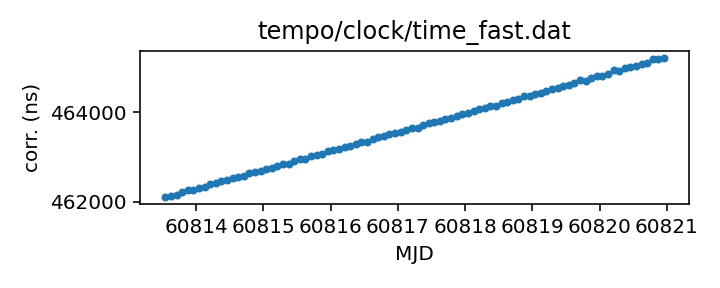
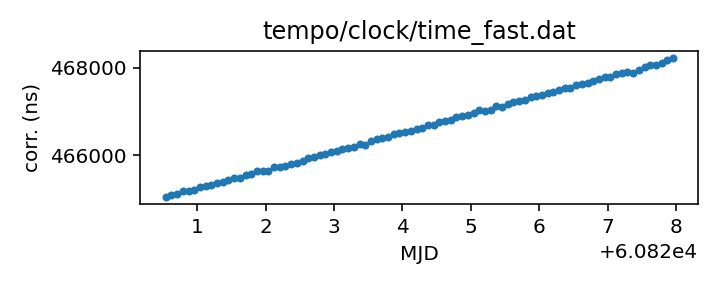
Routine gh-pages update from Github action Mon Jun  2 20:44:32 UTC 2025

diff --git a/status.md b/status.md
@@ -13,18 +13,18 @@ name of each clock file links to a page with more details.
 
 | Name | File | Corrections start | Corrections end | Last check date | Last check result 
 |:--- |:--- | --- | --- | --- |:--- 
-| [GPS to UTC](T2runtime/clock/gps2utc.clk.html) | `T2runtime/clock/gps2utc.clk` | 1993-01-01 MJD 48988.0 | 2025-04-29 MJD 60794.0 | 2025-06-01 | Unchanged 
-| [GPS to UTC (Combined Clock)](T2runtime/clock/gps2utc_cc.clk.html) | `T2runtime/clock/gps2utc_cc.clk` | 1993-01-01 MJD 48988.0 | 2025-04-29 MJD 60794.0 | 2025-06-01 | Unchanged 
-| [GPS to UTC (Corrected)](T2runtime/clock/gps2utc_c0p.clk.html) | `T2runtime/clock/gps2utc_c0p.clk` | 2010-12-29 MJD 55559.0 | 2025-04-29 MJD 60794.0 | 2025-06-01 | Unchanged 
-| [GBT](tempo/clock/time_gbt.dat.html) | `tempo/clock/time_gbt.dat` | 2000-12-31 MJD 51909.5 | 2025-05-29 MJD 60824.5 | 2025-06-01 | Unchanged 
-| [GBT (TEMPO2 converted from TEMPO)](T2runtime/clock/gbt2gps.clk.html) | `T2runtime/clock/gbt2gps.clk` | 2000-12-31 MJD 51909.5 | 2024-05-18 MJD 60448.5 | 2025-06-01 | **Validation failed** 
-| [Jodrell Bank](T2runtime/clock/jb2gps.clk.html) | `T2runtime/clock/jb2gps.clk` | 2006-10-13 MJD 54021.4 | 2024-11-07 MJD 60621.0 | 2025-05-26 | Unchanged 
-| [Jodrell Bank Roach](T2runtime/clock/jbroach2jb.clk.html) | `T2runtime/clock/jbroach2jb.clk` | 2006-10-13 MJD 54021.4 | 2018-03-20 MJD 58197.6 | 2025-05-26 | Unchanged 
-| [Jodrell Bank DFB](T2runtime/clock/jbdfb2jb.clk.html) | `T2runtime/clock/jbdfb2jb.clk` | 2006-10-13 MJD 54021.4 | 2021-02-22 MJD 59268.0 | 2025-05-26 | Unchanged 
-| [Meerkat (observatory)](T2runtime/clock/mk2utc_observatory.clk.html) | `T2runtime/clock/mk2utc_observatory.clk` | 2019-01-01 MJD 58484.0 | 2025-05-20 MJD 60816.0 | 2025-05-26 | Updated 
-| [Leap seconds](tempo/clock/leap.sec.html) | `tempo/clock/leap.sec` | 1972-07-01 MJD 41499.0 | 2017-01-01 MJD 57754.0 | 2025-06-01 | Unchanged 
-| [UT1 table](tempo/clock/ut1.dat.html) | `tempo/clock/ut1.dat` | 1973-01-02 MJD 41684.0 | 2026-06-06 MJD 61197.0 | 2025-06-01 | Unchanged 
-| [UT1 table](T2runtime/clock/ut1.dat.html) | `T2runtime/clock/ut1.dat` | 1973-01-02 MJD 41684.0 | 2026-06-06 MJD 61197.0 | 2025-06-01 | Unchanged 
+| [GPS to UTC](T2runtime/clock/gps2utc.clk.html) | `T2runtime/clock/gps2utc.clk` | 1993-01-01 MJD 48988.0 | 2025-04-29 MJD 60794.0 | 2025-06-02 | Unchanged 
+| [GPS to UTC (Combined Clock)](T2runtime/clock/gps2utc_cc.clk.html) | `T2runtime/clock/gps2utc_cc.clk` | 1993-01-01 MJD 48988.0 | 2025-04-29 MJD 60794.0 | 2025-06-02 | Unchanged 
+| [GPS to UTC (Corrected)](T2runtime/clock/gps2utc_c0p.clk.html) | `T2runtime/clock/gps2utc_c0p.clk` | 2010-12-29 MJD 55559.0 | 2025-04-29 MJD 60794.0 | 2025-06-02 | Unchanged 
+| [GBT](tempo/clock/time_gbt.dat.html) | `tempo/clock/time_gbt.dat` | 2000-12-31 MJD 51909.5 | 2025-05-29 MJD 60824.5 | 2025-06-02 | Unchanged 
+| [GBT (TEMPO2 converted from TEMPO)](T2runtime/clock/gbt2gps.clk.html) | `T2runtime/clock/gbt2gps.clk` | 2000-12-31 MJD 51909.5 | 2024-05-18 MJD 60448.5 | 2025-06-02 | **Validation failed** 
+| [Jodrell Bank](T2runtime/clock/jb2gps.clk.html) | `T2runtime/clock/jb2gps.clk` | 2006-10-13 MJD 54021.4 | 2024-11-07 MJD 60621.0 | 2025-06-02 | Unchanged 
+| [Jodrell Bank Roach](T2runtime/clock/jbroach2jb.clk.html) | `T2runtime/clock/jbroach2jb.clk` | 2006-10-13 MJD 54021.4 | 2018-03-20 MJD 58197.6 | 2025-06-02 | Unchanged 
+| [Jodrell Bank DFB](T2runtime/clock/jbdfb2jb.clk.html) | `T2runtime/clock/jbdfb2jb.clk` | 2006-10-13 MJD 54021.4 | 2021-02-22 MJD 59268.0 | 2025-06-02 | Unchanged 
+| [Meerkat (observatory)](T2runtime/clock/mk2utc_observatory.clk.html) | `T2runtime/clock/mk2utc_observatory.clk` | 2019-01-01 MJD 58484.0 | 2025-05-20 MJD 60816.0 | 2025-06-02 | **Failed to download** 
+| [Leap seconds](tempo/clock/leap.sec.html) | `tempo/clock/leap.sec` | 1972-07-01 MJD 41499.0 | 2017-01-01 MJD 57754.0 | 2025-06-02 | Unchanged 
+| [UT1 table](tempo/clock/ut1.dat.html) | `tempo/clock/ut1.dat` | 1973-01-02 MJD 41684.0 | 2026-06-06 MJD 61197.0 | 2025-06-02 | Unchanged 
+| [UT1 table](T2runtime/clock/ut1.dat.html) | `T2runtime/clock/ut1.dat` | 1973-01-02 MJD 41684.0 | 2026-06-06 MJD 61197.0 | 2025-06-02 | Unchanged 
 
 
 
@@ -68,26 +68,26 @@ name of each clock file links to a page with more details.
 
 | Name | File | Corrections start | Corrections end | Last check date | Last check result 
 |:--- |:--- | --- | --- | --- |:--- 
-| [GPS to UTC (TEMPO2)](T2runtime/clock/gpst2utc_tempo2.clk.html) | `T2runtime/clock/gpst2utc_tempo2.clk` | 1993-01-01 MJD 48988.0 | 2024-12-30 MJD 60674.0 | 2025-05-26 | Unchanged 
-| [GBT (TEMPO2)](T2runtime/clock/gbt2gps_tempo2.clk.html) | `T2runtime/clock/gbt2gps_tempo2.clk` | 2000-12-31 MJD 51909.5 | 2020-02-25 MJD 58904.5 | 2025-05-26 | Unchanged 
-| [Jodrell Bank (TEMPO)](tempo/clock/time_jb.dat.html) | `tempo/clock/time_jb.dat` | 2006-10-13 MJD 54021.4 | 2019-05-13 MJD 58616.2 | 2025-05-26 | Unchanged 
-| [VLA](tempo/clock/time_vla.dat.html) | `tempo/clock/time_vla.dat` | 1990-10-27 MJD 48191.2 | 2025-02-10 MJD 60716.2 | 2025-05-26 | Unchanged 
-| [VLA (TEMPO2)](T2runtime/clock/vla2gps.clk.html) | `T2runtime/clock/vla2gps.clk` | 2015-02-01 MJD 57054.6 | 2025-02-10 MJD 60716.2 | 2025-05-26 | Unchanged 
-| [VLA to NIST](T2runtime/clock/vla2nist.clk.html) | `T2runtime/clock/vla2nist.clk` | 1990-10-27 MJD 48191.2 | 1993-11-13 MJD 49304.0 | 2025-05-26 | Unchanged 
-| [FAST](tempo/clock/time_fast.dat.html) | `tempo/clock/time_fast.dat` | 2017-07-27 MJD 57961.0 | 2025-05-25 MJD 60821.0 | 2025-05-26 | Updated 
-| [WSRT](T2runtime/clock/wsrt2gps.clk.html) | `T2runtime/clock/wsrt2gps.clk` | 1999-01-01 MJD 51179.5 | 2015-06-29 MJD 57202.1 | 2025-05-26 | Unchanged 
-| [WSRT (TEMPO)](tempo/clock/time_wsrt.dat.html) | `tempo/clock/time_wsrt.dat` | 1987-07-24 MJD 47000.0 | 2007-12-24 MJD 54458.0 | 2025-05-26 | **Validation failed** 
-| [Parkes](T2runtime/clock/pks2gps.clk.html) | `T2runtime/clock/pks2gps.clk` | 1858-11-17 MJD 0.0 | 2025-04-30 MJD 60795.1 | 2025-05-26 | Unchanged 
-| [Parkes (TEMPO)](tempo/clock/time_pks.dat.html) | `tempo/clock/time_pks.dat` | 1979-05-07 MJD 44000.0 | 2011-07-03 MJD 55745.8 | 2025-05-26 | Unchanged 
-| [SRT](T2runtime/clock/srt2gps.clk.html) | `T2runtime/clock/srt2gps.clk` | 2013-03-20 MJD 56371.0 | 2019-12-11 MJD 58828.0 | 2025-05-26 | Unchanged 
-| [Effelsberg](T2runtime/clock/eff2gps.clk.html) | `T2runtime/clock/eff2gps.clk` | 1993-11-29 MJD 49320.0 | 2015-06-22 MJD 57195.5 | 2025-05-26 | Unchanged 
-| [Effelsberg Asterix/PSRix](T2runtime/clock/effix2gps.clk.html) | `T2runtime/clock/effix2gps.clk` | 2011-01-01 MJD 55562.5 | 2021-03-21 MJD 59294.5 | 2025-05-26 | Unchanged 
-| [LEAP](T2runtime/clock/leap2effix.clk.html) | `T2runtime/clock/leap2effix.clk` | 2012-10-29 MJD 56230.0 | 2014-03-04 MJD 56720.0 | 2025-05-26 | Unchanged 
-| [NUPPI](tempo/clock/time_nuppi.dat.html) | `tempo/clock/time_nuppi.dat` | 2005-03-07 MJD 53436.0 | 2015-11-08 MJD 57334.6 | 2025-05-26 | Unchanged 
-| [Meerkat (TEMPO2)](T2runtime/clock/mk2utc.clk.html) | `T2runtime/clock/mk2utc.clk` | 2019-01-01 MJD 58484.0 | 2024-09-23 MJD 60576.9 | 2025-05-26 | **Validation failed** 
-| [MOST](T2runtime/clock/mo2gps.clk.html) | `T2runtime/clock/mo2gps.clk` | 2003-12-27 MJD 53000.0 | 2018-09-06 MJD 58367.0 | 2025-05-26 | Unchanged 
-| [Nancay to obspm](T2runtime/clock/ncyobs2obspm.clk.html) | `T2runtime/clock/ncyobs2obspm.clk` | 1988-05-18 MJD 47299.6 | 2024-12-30 MJD 60674.0 | 2025-05-26 | Unchanged 
-| [obspm](T2runtime/clock/obspm2gps.clk.html) | `T2runtime/clock/obspm2gps.clk` | 2003-12-01 MJD 52974.0 | 2023-10-27 MJD 60244.0 | 2025-05-26 | Unchanged 
+| [GPS to UTC (TEMPO2)](T2runtime/clock/gpst2utc_tempo2.clk.html) | `T2runtime/clock/gpst2utc_tempo2.clk` | 1993-01-01 MJD 48988.0 | 2024-12-30 MJD 60674.0 | 2025-06-02 | Unchanged 
+| [GBT (TEMPO2)](T2runtime/clock/gbt2gps_tempo2.clk.html) | `T2runtime/clock/gbt2gps_tempo2.clk` | 2000-12-31 MJD 51909.5 | 2020-02-25 MJD 58904.5 | 2025-06-02 | Unchanged 
+| [Jodrell Bank (TEMPO)](tempo/clock/time_jb.dat.html) | `tempo/clock/time_jb.dat` | 2006-10-13 MJD 54021.4 | 2019-05-13 MJD 58616.2 | 2025-06-02 | Unchanged 
+| [VLA](tempo/clock/time_vla.dat.html) | `tempo/clock/time_vla.dat` | 1990-10-27 MJD 48191.2 | 2025-02-10 MJD 60716.2 | 2025-06-02 | Unchanged 
+| [VLA (TEMPO2)](T2runtime/clock/vla2gps.clk.html) | `T2runtime/clock/vla2gps.clk` | 2015-02-01 MJD 57054.6 | 2025-02-10 MJD 60716.2 | 2025-06-02 | Unchanged 
+| [VLA to NIST](T2runtime/clock/vla2nist.clk.html) | `T2runtime/clock/vla2nist.clk` | 1990-10-27 MJD 48191.2 | 1993-11-13 MJD 49304.0 | 2025-06-02 | Unchanged 
+| [FAST](tempo/clock/time_fast.dat.html) | `tempo/clock/time_fast.dat` | 2017-07-27 MJD 57961.0 | 2025-06-01 MJD 60828.0 | 2025-06-02 | Updated 
+| [WSRT](T2runtime/clock/wsrt2gps.clk.html) | `T2runtime/clock/wsrt2gps.clk` | 1999-01-01 MJD 51179.5 | 2015-06-29 MJD 57202.1 | 2025-06-02 | Unchanged 
+| [WSRT (TEMPO)](tempo/clock/time_wsrt.dat.html) | `tempo/clock/time_wsrt.dat` | 1987-07-24 MJD 47000.0 | 2007-12-24 MJD 54458.0 | 2025-06-02 | **Validation failed** 
+| [Parkes](T2runtime/clock/pks2gps.clk.html) | `T2runtime/clock/pks2gps.clk` | 1858-11-17 MJD 0.0 | 2025-04-30 MJD 60795.1 | 2025-06-02 | Unchanged 
+| [Parkes (TEMPO)](tempo/clock/time_pks.dat.html) | `tempo/clock/time_pks.dat` | 1979-05-07 MJD 44000.0 | 2011-07-03 MJD 55745.8 | 2025-06-02 | Unchanged 
+| [SRT](T2runtime/clock/srt2gps.clk.html) | `T2runtime/clock/srt2gps.clk` | 2013-03-20 MJD 56371.0 | 2019-12-11 MJD 58828.0 | 2025-06-02 | Unchanged 
+| [Effelsberg](T2runtime/clock/eff2gps.clk.html) | `T2runtime/clock/eff2gps.clk` | 1993-11-29 MJD 49320.0 | 2015-06-22 MJD 57195.5 | 2025-06-02 | Unchanged 
+| [Effelsberg Asterix/PSRix](T2runtime/clock/effix2gps.clk.html) | `T2runtime/clock/effix2gps.clk` | 2011-01-01 MJD 55562.5 | 2021-03-21 MJD 59294.5 | 2025-06-02 | Unchanged 
+| [LEAP](T2runtime/clock/leap2effix.clk.html) | `T2runtime/clock/leap2effix.clk` | 2012-10-29 MJD 56230.0 | 2014-03-04 MJD 56720.0 | 2025-06-02 | Unchanged 
+| [NUPPI](tempo/clock/time_nuppi.dat.html) | `tempo/clock/time_nuppi.dat` | 2005-03-07 MJD 53436.0 | 2015-11-08 MJD 57334.6 | 2025-06-02 | Unchanged 
+| [Meerkat (TEMPO2)](T2runtime/clock/mk2utc.clk.html) | `T2runtime/clock/mk2utc.clk` | 2019-01-01 MJD 58484.0 | 2024-09-23 MJD 60576.9 | 2025-06-02 | **Validation failed** 
+| [MOST](T2runtime/clock/mo2gps.clk.html) | `T2runtime/clock/mo2gps.clk` | 2003-12-27 MJD 53000.0 | 2018-09-06 MJD 58367.0 | 2025-06-02 | Unchanged 
+| [Nancay to obspm](T2runtime/clock/ncyobs2obspm.clk.html) | `T2runtime/clock/ncyobs2obspm.clk` | 1988-05-18 MJD 47299.6 | 2024-12-30 MJD 60674.0 | 2025-06-02 | Unchanged 
+| [obspm](T2runtime/clock/obspm2gps.clk.html) | `T2runtime/clock/obspm2gps.clk` | 2003-12-01 MJD 52974.0 | 2023-10-27 MJD 60244.0 | 2025-06-02 | Unchanged 
 
 
 ### Further information:

diff --git a/tempo/clock/time_wsrt.dat.md b/tempo/clock/time_wsrt.dat.md
@@ -20,12 +20,11 @@ should be the same information.
 | Clock file start | 1987-07-24 MJD 47000.0 |
 | Clock file end | 2007-12-24 MJD 54458.0 |
 | Update interval (days) | 7 |
-| Last update attempt | 2025-05-26 |
+| Last update attempt | 2025-06-02 |
 | Last update result | Validation failed |
 
 Log entries from the last few update attempts:
 ```
-2025-01-08 20:36:50.333 - Validation failed: Unable to read new version of tempo/clock/time_wsrt.dat: Clock file /tmp/astropy-download-2276-l3i_8691 appears to be out of order: 53000.05 > 53000.0
 2025-01-15 20:35:00.039 - Validation failed: Unable to read new version of tempo/clock/time_wsrt.dat: Clock file /tmp/astropy-download-2348-_2252_mq appears to be out of order: 53000.05 > 53000.0
 2025-01-22 20:35:01.240 - Validation failed: Unable to read new version of tempo/clock/time_wsrt.dat: Clock file /tmp/astropy-download-2304-riwd1xxy appears to be out of order: 53000.05 > 53000.0
 2025-01-29 20:35:42.515 - Validation failed: Unable to read new version of tempo/clock/time_wsrt.dat: Clock file /tmp/astropy-download-2314-jajeweba appears to be out of order: 53000.05 > 53000.0
@@ -35,6 +34,7 @@ Log entries from the last few update attempts:
 2025-05-12 20:38:46.867 - Validation failed: New version of tempo/clock/time_wsrt.dat MJDs differ from old version where they overlap in 5 places
 2025-05-19 20:42:11.433 - Validation failed: New version of tempo/clock/time_wsrt.dat MJDs differ from old version where they overlap in 5 places
 2025-05-26 20:41:03.017 - Validation failed: New version of tempo/clock/time_wsrt.dat MJDs differ from old version where they overlap in 5 places
+2025-06-02 20:43:47.127 - Validation failed: New version of tempo/clock/time_wsrt.dat MJDs differ from old version where they overlap in 5 places
 ```
 [Full log](https://raw.githubusercontent.com/ipta/pulsar-clock-corrections/main/log/tempo/clock/time_wsrt.dat.log)
 

diff --git a/T2runtime/clock/gbt2gps.clk.md b/T2runtime/clock/gbt2gps.clk.md
@@ -25,12 +25,11 @@ If questions arise about the conversion, contact Anne Archibald
 | Clock file start | 2000-12-31 MJD 51909.5 |
 | Clock file end | 2024-05-18 MJD 60448.5 |
 | Update interval (days) | 1 |
-| Last update attempt | 2025-06-01 |
+| Last update attempt | 2025-06-02 |
 | Last update result | Validation failed |
 
 Log entries from the last few update attempts:
 ```
-2025-05-23 20:41:29.842 - Validation failed: New version of T2runtime/clock/gbt2gps.clk clock corrections differ from old version where they overlap in 11 places
 2025-05-24 20:39:18.312 - Validation failed: New version of T2runtime/clock/gbt2gps.clk clock corrections differ from old version where they overlap in 11 places
 2025-05-25 20:39:16.625 - Validation failed: New version of T2runtime/clock/gbt2gps.clk clock corrections differ from old version where they overlap in 11 places
 2025-05-26 20:40:59.404 - Validation failed: New version of T2runtime/clock/gbt2gps.clk clock corrections differ from old version where they overlap in 11 places
@@ -40,6 +39,7 @@ Log entries from the last few update attempts:
 2025-05-30 20:42:53.639 - Validation failed: New version of T2runtime/clock/gbt2gps.clk clock corrections differ from old version where they overlap in 11 places
 2025-05-31 20:39:54.856 - Validation failed: New version of T2runtime/clock/gbt2gps.clk clock corrections differ from old version where they overlap in 11 places
 2025-06-01 20:41:33.021 - Validation failed: New version of T2runtime/clock/gbt2gps.clk clock corrections differ from old version where they overlap in 11 places
+2025-06-02 20:43:41.596 - Validation failed: New version of T2runtime/clock/gbt2gps.clk clock corrections differ from old version where they overlap in 11 places
 ```
 [Full log](https://raw.githubusercontent.com/ipta/pulsar-clock-corrections/main/log/T2runtime/clock/gbt2gps.clk.log)
 

diff --git a/tempo/clock/time_pks.dat.md b/tempo/clock/time_pks.dat.md
@@ -20,12 +20,11 @@ telescopes in the same file, distinguished only by observatory code.
 | Clock file start | 1979-05-07 MJD 44000.0 |
 | Clock file end | 2011-07-03 MJD 55745.8 |
 | Update interval (days) | 7 |
-| Last update attempt | 2025-05-26 |
+| Last update attempt | 2025-06-02 |
 | Last update result | Unchanged |
 
 Log entries from the last few update attempts:
 ```
-2025-01-08 20:36:54.237 - Validation failed: Unable to read new version of tempo/clock/time_pks.dat: Clock file /tmp/astropy-download-2276-gpk3q2dj appears to be out of order: 49959.0 > 49958.0
 2025-01-15 20:35:03.801 - Validation failed: Unable to read new version of tempo/clock/time_pks.dat: Clock file /tmp/astropy-download-2348-0794xif6 appears to be out of order: 49959.0 > 49958.0
 2025-01-22 20:35:06.602 - Validation failed: Unable to read new version of tempo/clock/time_pks.dat: Clock file /tmp/astropy-download-2304-98v3yima appears to be out of order: 49959.0 > 49958.0
 2025-01-29 20:35:46.314 - Validation failed: Unable to read new version of tempo/clock/time_pks.dat: Clock file /tmp/astropy-download-2314-e3p7x51_ appears to be out of order: 49959.0 > 49958.0
@@ -35,6 +34,7 @@ Log entries from the last few update attempts:
 2025-05-12 20:38:51.896 - Updated
 2025-05-19 20:42:16.749 - Unchanged
 2025-05-26 20:41:07.727 - Unchanged
+2025-06-02 20:43:51.248 - Unchanged
 ```
 [Full log](https://raw.githubusercontent.com/ipta/pulsar-clock-corrections/main/log/tempo/clock/time_pks.dat.log)
 

diff --git a/T2runtime/clock/mk2utc.clk.md b/T2runtime/clock/mk2utc.clk.md
@@ -17,12 +17,11 @@ up-to-date.
 | Clock file start | 2019-01-01 MJD 58484.0 |
 | Clock file end | 2024-09-23 MJD 60576.9 |
 | Update interval (days) | 7 |
-| Last update attempt | 2025-05-26 |
+| Last update attempt | 2025-06-02 |
 | Last update result | Validation failed |
 
 Log entries from the last few update attempts:
 ```
-2025-01-08 20:37:08.862 - Unchanged
 2025-01-15 20:35:18.948 - Unchanged
 2025-01-22 20:35:18.436 - Unchanged
 2025-01-29 20:35:53.683 - Unchanged
@@ -32,6 +31,7 @@ Log entries from the last few update attempts:
 2025-05-12 20:38:57.406 - Validation failed: New version of T2runtime/clock/mk2utc.clk MJDs differ from old version where they overlap in 8252 places
 2025-05-19 20:42:23.008 - Validation failed: New version of T2runtime/clock/mk2utc.clk MJDs differ from old version where they overlap in 8252 places
 2025-05-26 20:41:15.585 - Validation failed: New version of T2runtime/clock/mk2utc.clk MJDs differ from old version where they overlap in 8252 places
+2025-06-02 20:44:05.618 - Validation failed: New version of T2runtime/clock/mk2utc.clk MJDs differ from old version where they overlap in 8252 places
 ```
 [Full log](https://raw.githubusercontent.com/ipta/pulsar-clock-corrections/main/log/T2runtime/clock/mk2utc.clk.log)
 

diff --git a/tempo/clock/time_gbt.dat.md b/tempo/clock/time_gbt.dat.md
@@ -38,12 +38,11 @@ If questions arise, contact Ryan S. Lynch <rlynch@nrao.edu>.
 | Clock file start | 2000-12-31 MJD 51909.5 |
 | Clock file end | 2025-05-29 MJD 60824.5 |
 | Update interval (days) | 1 |
-| Last update attempt | 2025-06-01 |
+| Last update attempt | 2025-06-02 |
 | Last update result | Unchanged |
 
 Log entries from the last few update attempts:
 ```
-2025-05-23 20:41:29.788 - Updated
 2025-05-24 20:39:18.258 - Updated
 2025-05-25 20:39:16.586 - Validation failed: New version of tempo/clock/time_gbt.dat clock corrections differ from old version where they overlap in 1 places
 2025-05-26 20:40:59.026 - Validation failed: New version of tempo/clock/time_gbt.dat clock corrections differ from old version where they overlap in 1 places
@@ -53,6 +52,7 @@ Log entries from the last few update attempts:
 2025-05-30 20:42:53.584 - Updated
 2025-05-31 20:39:54.799 - Unchanged
 2025-06-01 20:41:32.967 - Unchanged
+2025-06-02 20:43:41.034 - Unchanged
 ```
 [Full log](https://raw.githubusercontent.com/ipta/pulsar-clock-corrections/main/log/tempo/clock/time_gbt.dat.log)
 

diff --git a/T2runtime/clock/mk2utc_observatory.clk.md b/T2runtime/clock/mk2utc_observatory.clk.md
@@ -21,12 +21,11 @@ If questions arise, contact Ryan Shannon <rshannon@swin.edu.au>
 | Clock file start | 2019-01-01 MJD 58484.0 |
 | Clock file end | 2025-05-20 MJD 60816.0 |
 | Update interval (days) | 7 |
-| Last update attempt | 2025-05-26 |
-| Last update result | Updated |
+| Last update attempt | 2025-06-02 |
+| Last update result | Failed to download |
 
 Log entries from the last few update attempts:
 ```
-2025-01-08 20:37:07.662 - Failed to download: The read operation timed out
 2025-01-15 20:35:17.790 - Updated
 2025-01-22 20:35:17.843 - Failed to download: <urlopen error _ssl.c:989: The handshake operation timed out>
 2025-01-29 20:35:52.603 - Updated
@@ -36,6 +35,7 @@ Log entries from the last few update attempts:
 2025-05-12 20:38:56.123 - Updated
 2025-05-19 20:42:21.702 - Unchanged
 2025-05-26 20:41:14.027 - Updated
+2025-06-02 20:44:03.921 - Failed to download: <urlopen error _ssl.c:999: The handshake operation timed out>
 ```
 [Full log](https://raw.githubusercontent.com/ipta/pulsar-clock-corrections/main/log/T2runtime/clock/mk2utc_observatory.clk.log)
 

diff --git a/tempo/clock/time_fast.dat.md b/tempo/clock/time_fast.dat.md
@@ -14,14 +14,13 @@ This file is pulled from the FAST_ClockFile repository.
 | Format | tempo |
 | Bogus last correction | False |
 | Clock file start | 2017-07-27 MJD 57961.0 |
-| Clock file end | 2025-05-25 MJD 60821.0 |
+| Clock file end | 2025-06-01 MJD 60828.0 |
 | Update interval (days) | 7 |
-| Last update attempt | 2025-05-26 |
+| Last update attempt | 2025-06-02 |
 | Last update result | Updated |
 
 Log entries from the last few update attempts:
 ```
-2025-01-08 20:36:49.677 - Updated
 2025-01-15 20:34:59.214 - Updated
 2025-01-22 20:35:00.623 - Updated
 2025-01-29 20:35:41.820 - Updated
@@ -31,6 +30,7 @@ Log entries from the last few update attempts:
 2025-05-12 20:38:46.424 - Updated
 2025-05-19 20:42:11.064 - Updated
 2025-05-26 20:41:02.533 - Updated
+2025-06-02 20:43:46.376 - Updated
 ```
 [Full log](https://raw.githubusercontent.com/ipta/pulsar-clock-corrections/main/log/tempo/clock/time_fast.dat.log)
 

diff --git a/T2runtime/clock/gps2utc_c0p.clk.md b/T2runtime/clock/gps2utc_c0p.clk.md
@@ -30,12 +30,11 @@ about the BIPM's published corrections, contact <tai@bipm.org>.
 | Clock file start | 2010-12-29 MJD 55559.0 |
 | Clock file end | 2025-04-29 MJD 60794.0 |
 | Update interval (days) | 1 |
-| Last update attempt | 2025-06-01 |
+| Last update attempt | 2025-06-02 |
 | Last update result | Unchanged |
 
 Log entries from the last few update attempts:
 ```
-2025-05-23 20:41:29.411 - Unchanged
 2025-05-24 20:39:16.999 - Unchanged
 2025-05-25 20:39:15.763 - Unchanged
 2025-05-26 20:40:58.584 - Unchanged
@@ -45,6 +44,7 @@ Log entries from the last few update attempts:
 2025-05-30 20:42:53.310 - Unchanged
 2025-05-31 20:39:54.444 - Unchanged
 2025-06-01 20:41:32.570 - Unchanged
+2025-06-02 20:43:40.322 - Unchanged
 ```
 [Full log](https://raw.githubusercontent.com/ipta/pulsar-clock-corrections/main/log/T2runtime/clock/gps2utc_c0p.clk.log)
 

diff --git a/T2runtime/clock/gps2utc_cc.clk.md b/T2runtime/clock/gps2utc_cc.clk.md
@@ -29,12 +29,11 @@ about the BIPM's published corrections, contact <tai@bipm.org>.
 | Clock file start | 1993-01-01 MJD 48988.0 |
 | Clock file end | 2025-04-29 MJD 60794.0 |
 | Update interval (days) | 1 |
-| Last update attempt | 2025-06-01 |
+| Last update attempt | 2025-06-02 |
 | Last update result | Unchanged |
 
 Log entries from the last few update attempts:
 ```
-2025-05-23 20:41:29.403 - Unchanged
 2025-05-24 20:39:16.991 - Unchanged
 2025-05-25 20:39:15.756 - Unchanged
 2025-05-26 20:40:58.574 - Unchanged
@@ -44,6 +43,7 @@ Log entries from the last few update attempts:
 2025-05-30 20:42:53.302 - Unchanged
 2025-05-31 20:39:54.436 - Unchanged
 2025-06-01 20:41:32.562 - Unchanged
+2025-06-02 20:43:40.314 - Unchanged
 ```
 [Full log](https://raw.githubusercontent.com/ipta/pulsar-clock-corrections/main/log/T2runtime/clock/gps2utc_cc.clk.log)
 

diff --git a/T2runtime/clock/gps2utc.clk.md b/T2runtime/clock/gps2utc.clk.md
@@ -32,12 +32,11 @@ about the BIPM's published corrections, contact <tai@bipm.org>.
 | Clock file start | 1993-01-01 MJD 48988.0 |
 | Clock file end | 2025-04-29 MJD 60794.0 |
 | Update interval (days) | 1 |
-| Last update attempt | 2025-06-01 |
+| Last update attempt | 2025-06-02 |
 | Last update result | Unchanged |
 
 Log entries from the last few update attempts:
 ```
-2025-05-23 20:41:29.381 - Unchanged
 2025-05-24 20:39:16.969 - Unchanged
 2025-05-25 20:39:15.733 - Unchanged
 2025-05-26 20:40:58.548 - Unchanged
@@ -47,6 +46,7 @@ Log entries from the last few update attempts:
 2025-05-30 20:42:53.279 - Unchanged
 2025-05-31 20:39:54.413 - Unchanged
 2025-06-01 20:41:32.540 - Unchanged
+2025-06-02 20:43:40.292 - Unchanged
 ```
 [Full log](https://raw.githubusercontent.com/ipta/pulsar-clock-corrections/main/log/T2runtime/clock/gps2utc.clk.log)
 

diff --git a/T2runtime/clock/ncyobs2obspm.clk.md b/T2runtime/clock/ncyobs2obspm.clk.md
@@ -22,12 +22,11 @@ thus here) can be expected to be somewhat up to date.
 | Clock file start | 1988-05-18 MJD 47299.6 |
 | Clock file end | 2024-12-30 MJD 60674.0 |
 | Update interval (days) | 7 |
-| Last update attempt | 2025-05-26 |
+| Last update attempt | 2025-06-02 |
 | Last update result | Unchanged |
 
 Log entries from the last few update attempts:
 ```
-2025-01-08 20:37:09.786 - Unchanged
 2025-01-15 20:35:19.897 - Unchanged
 2025-01-22 20:35:18.846 - Unchanged
 2025-01-29 20:35:54.673 - Unchanged
@@ -37,6 +36,7 @@ Log entries from the last few update attempts:
 2025-05-12 20:38:57.872 - Unchanged
 2025-05-19 20:42:23.316 - Unchanged
 2025-05-26 20:41:16.141 - Unchanged
+2025-06-02 20:44:06.556 - Unchanged
 ```
 [Full log](https://raw.githubusercontent.com/ipta/pulsar-clock-corrections/main/log/T2runtime/clock/ncyobs2obspm.clk.log)
 
